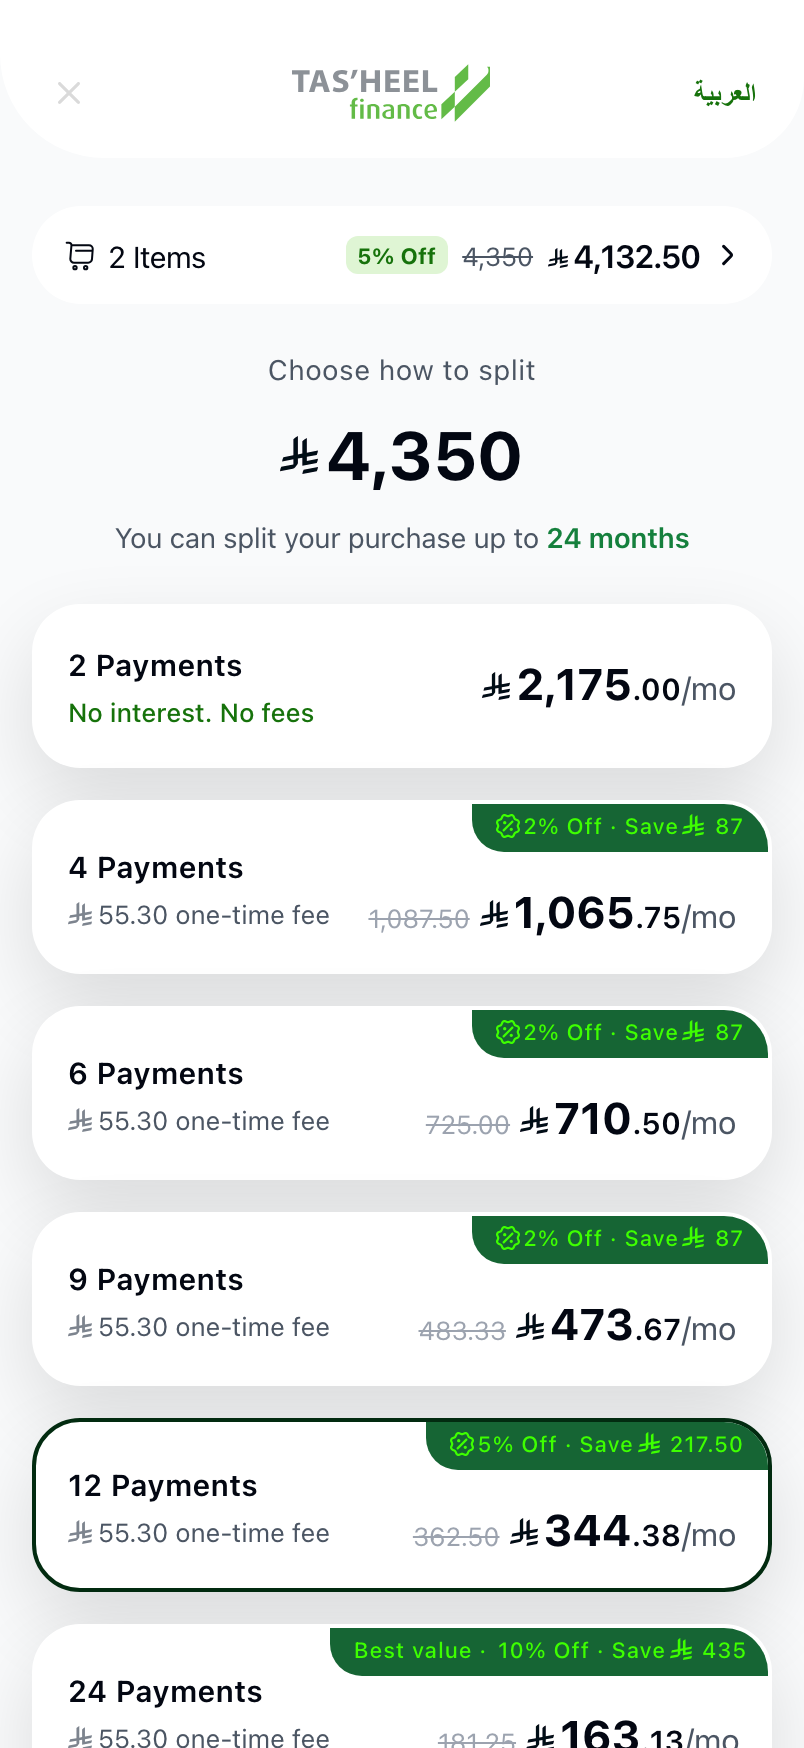
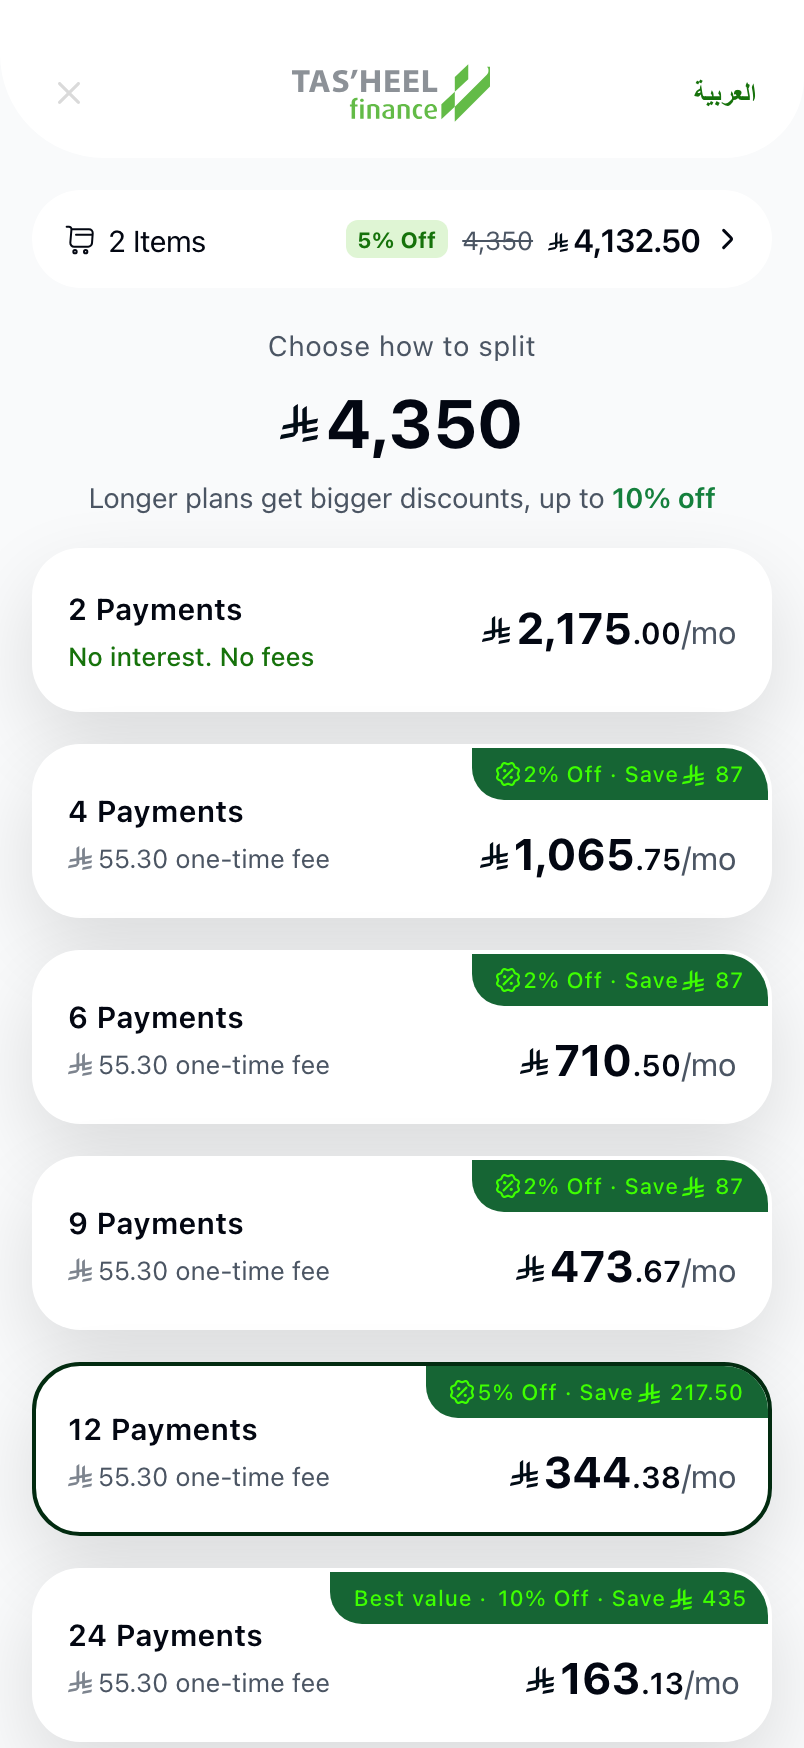
Polish the list to the stepper's finish level
- One discount signal per row: badge carries rate + saving, struck monthly
  anchors removed (a 2% delta struck at 13px was noise, not information).
- Badge pins to the card's top corner and the amount to the bottom edge —
  kills the floating white gap inside the fixed-height offer rows.
- Header block tightened (content gap 24 -> 16, head gap 12 -> 8) and the
  subtitle unified with the stepper: "Longer plans get bigger discounts,
  up to 10% off".

diff --git a/App.tsx b/App.tsx
@@ -1695,7 +1695,8 @@ function WcPlanRow({ months, selected, onPress }: { months: number; selected: bo
           </View>
         ) : null}
         <View style={[styles.wcPlanRowAmount, saving > 0 && { paddingRight: 16 }]}>
-          {saving > 0 ? <Text style={styles.wcPlanRowWas}>{wcMoney(wcPlanBaseMonthly(months))}</Text> : null}
+          {/* One discount signal per row: the badge carries rate + saving; the
+              monthly stays a single clean number. */}
           <Riyal size={14} />
           <Text style={styles.wcPlanRowMonthly}>
             {wcSplitAmount(monthly).whole}
@@ -1732,7 +1733,7 @@ function WcPlanList({ setRoute, months, setMonths }: { setRoute: (r: RouteKey) =
                 <Text style={styles.wcPlansTotal}>{formatAmount(WC_CART_TOTAL)}</Text>
               </View>
               <Text style={styles.wcPlansSub}>
-                You can split your purchase up to <Text style={styles.wcPlansSubStrong}>{maxTenure} months</Text>
+                Longer plans get bigger discounts, up to <Text style={styles.wcPlansSubStrong}>{Math.round(wcSavingRate(WC_BEST_TENURE) * 100)}% off</Text>
               </Text>
             </View>
             <View style={styles.wcPlansList} accessibilityRole="radiogroup">
@@ -4612,8 +4613,8 @@ const styles = StyleSheet.create({
   wcDiscountRowRight: { flexDirection: 'row', alignItems: 'center', gap: 10 },
   wcDiscountPct: { fontSize: 13, lineHeight: 18, fontWeight: '600', color: greenBrand },
   // ── Experience A — Figma 3615:73832 ───────────────────────────────────────────
-  wcPlansContent: { paddingHorizontal: 16, marginTop: 24, gap: 24 },
-  wcPlansHead: { paddingHorizontal: 16, alignItems: 'center', gap: 12 },
+  wcPlansContent: { paddingHorizontal: 16, marginTop: 16, gap: 16 },
+  wcPlansHead: { paddingHorizontal: 16, paddingTop: 4, alignItems: 'center', gap: 8 },
   wcPlansEyebrow: { fontSize: 14, lineHeight: 18, color: muted, letterSpacing: 0.36 },
   wcPlansTotalRow: { flexDirection: 'row', alignItems: 'center' },
   wcPlansTotal: { fontSize: 34, lineHeight: 42, fontWeight: '700', color: text, letterSpacing: 0.38 },
@@ -4632,7 +4633,9 @@ const styles = StyleSheet.create({
   wcPlanRowFeeLine: { flexDirection: 'row', alignItems: 'center' },
   wcPlanRowFee: { fontSize: 13, lineHeight: 16, color: muted },
   wcPlanRowRight: { alignItems: 'flex-end', justifyContent: 'center' },
-  wcPlanRowRightOffer: { gap: 16, paddingBottom: 16, alignSelf: 'stretch' },
+  // Badge pinned to the card's top corner, amount to the bottom edge — no
+  // floating gap between them inside the fixed-height row.
+  wcPlanRowRightOffer: { alignSelf: 'stretch', justifyContent: 'space-between', paddingBottom: 14 },
   wcPlanRowBadge: { backgroundColor: greenMid, borderBottomLeftRadius: 16, borderTopRightRadius: 16, paddingHorizontal: 12, paddingVertical: 6, flexDirection: 'row', alignItems: 'center', gap: 2 },
   wcPlanRowBadgeText: { fontSize: 11, lineHeight: 14, fontWeight: '500', color: neon, letterSpacing: 0.38 },
   wcPlanRowAmount: { flexDirection: 'row', alignItems: 'baseline' },
